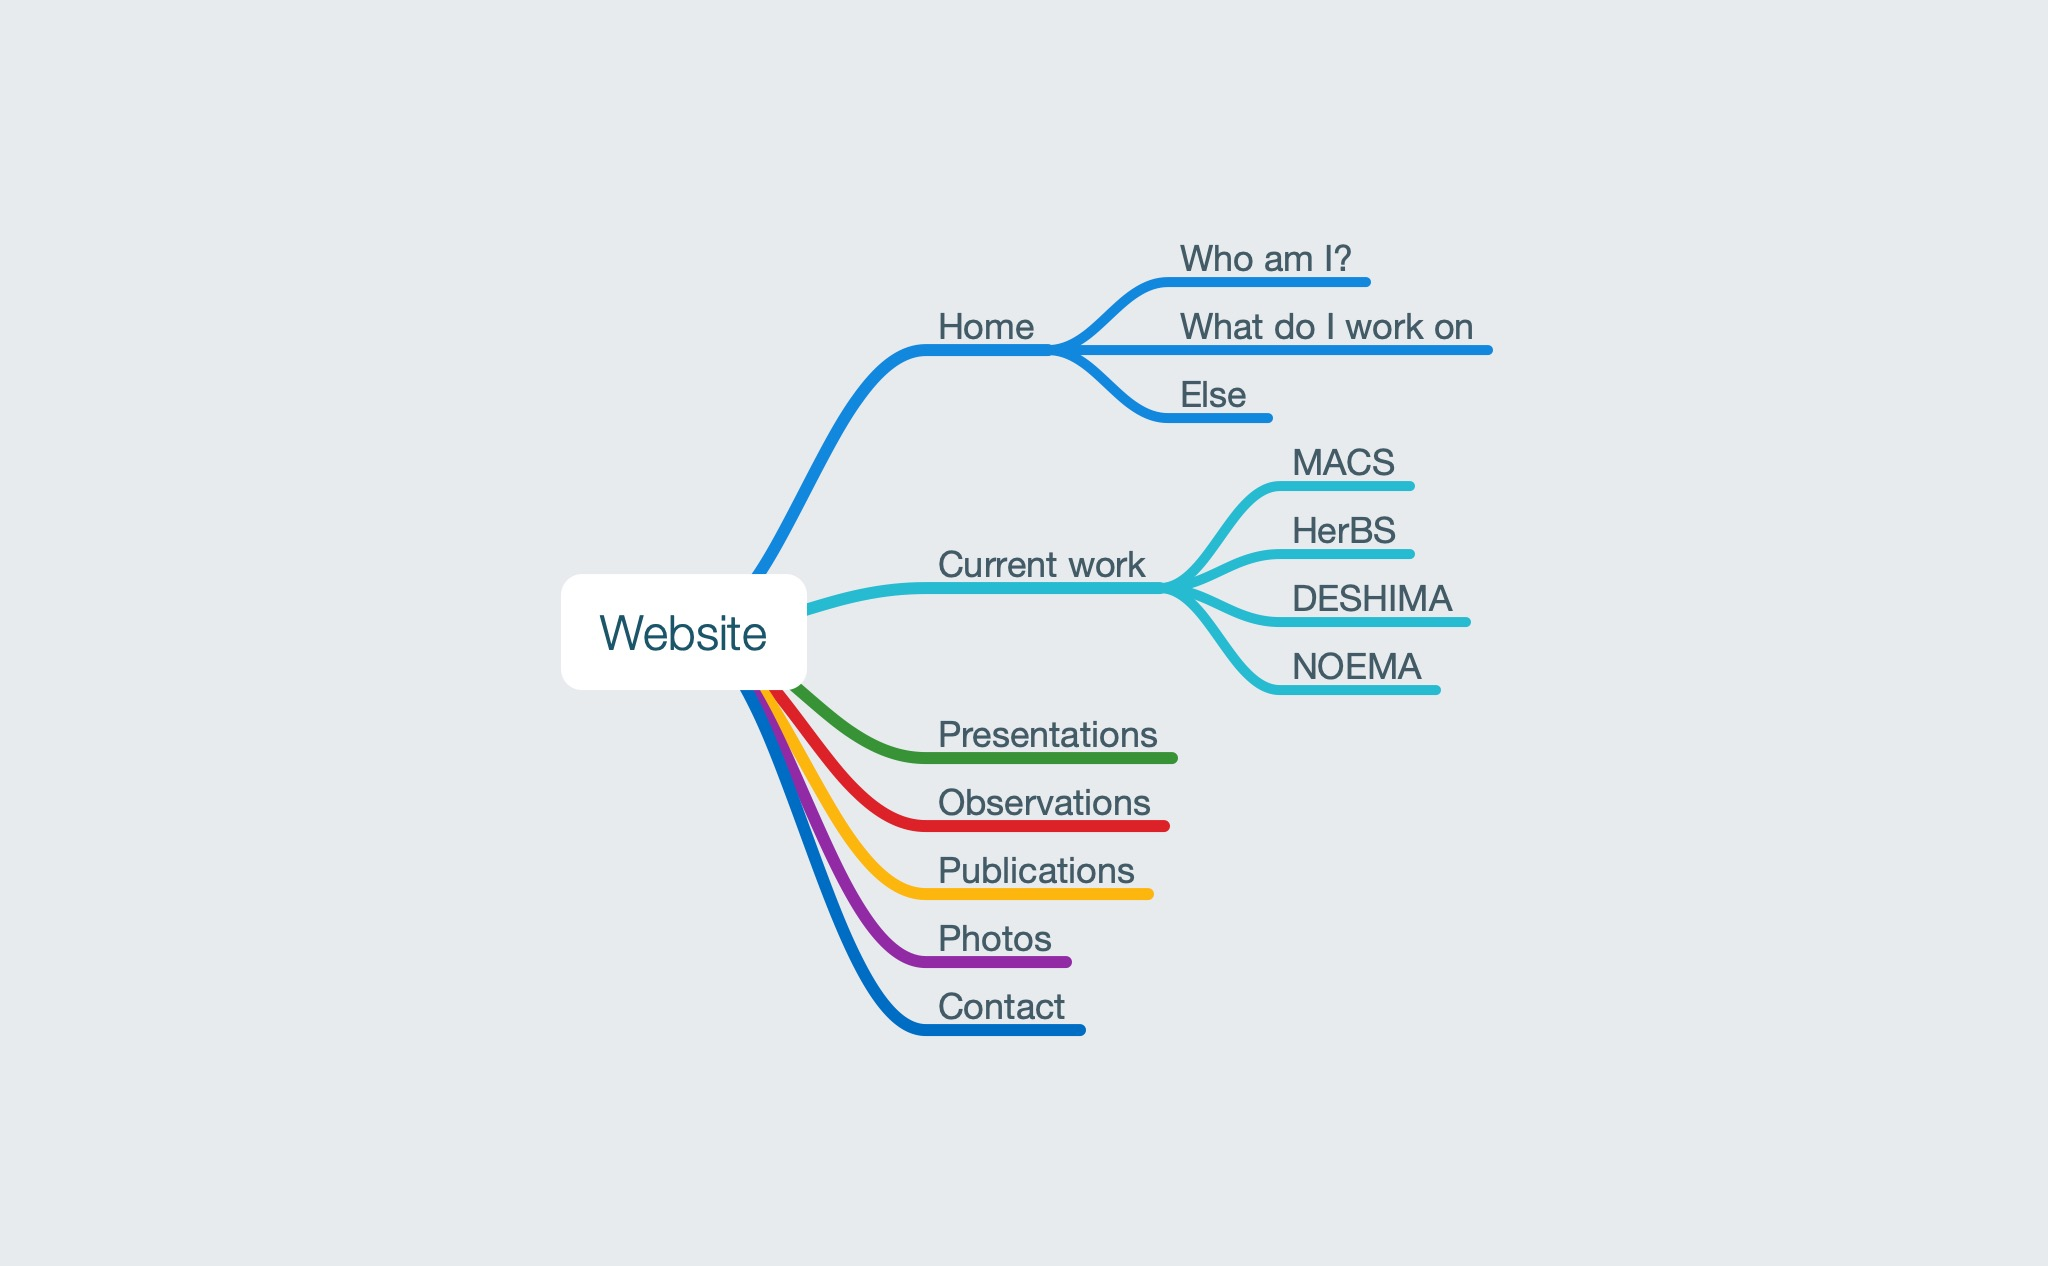
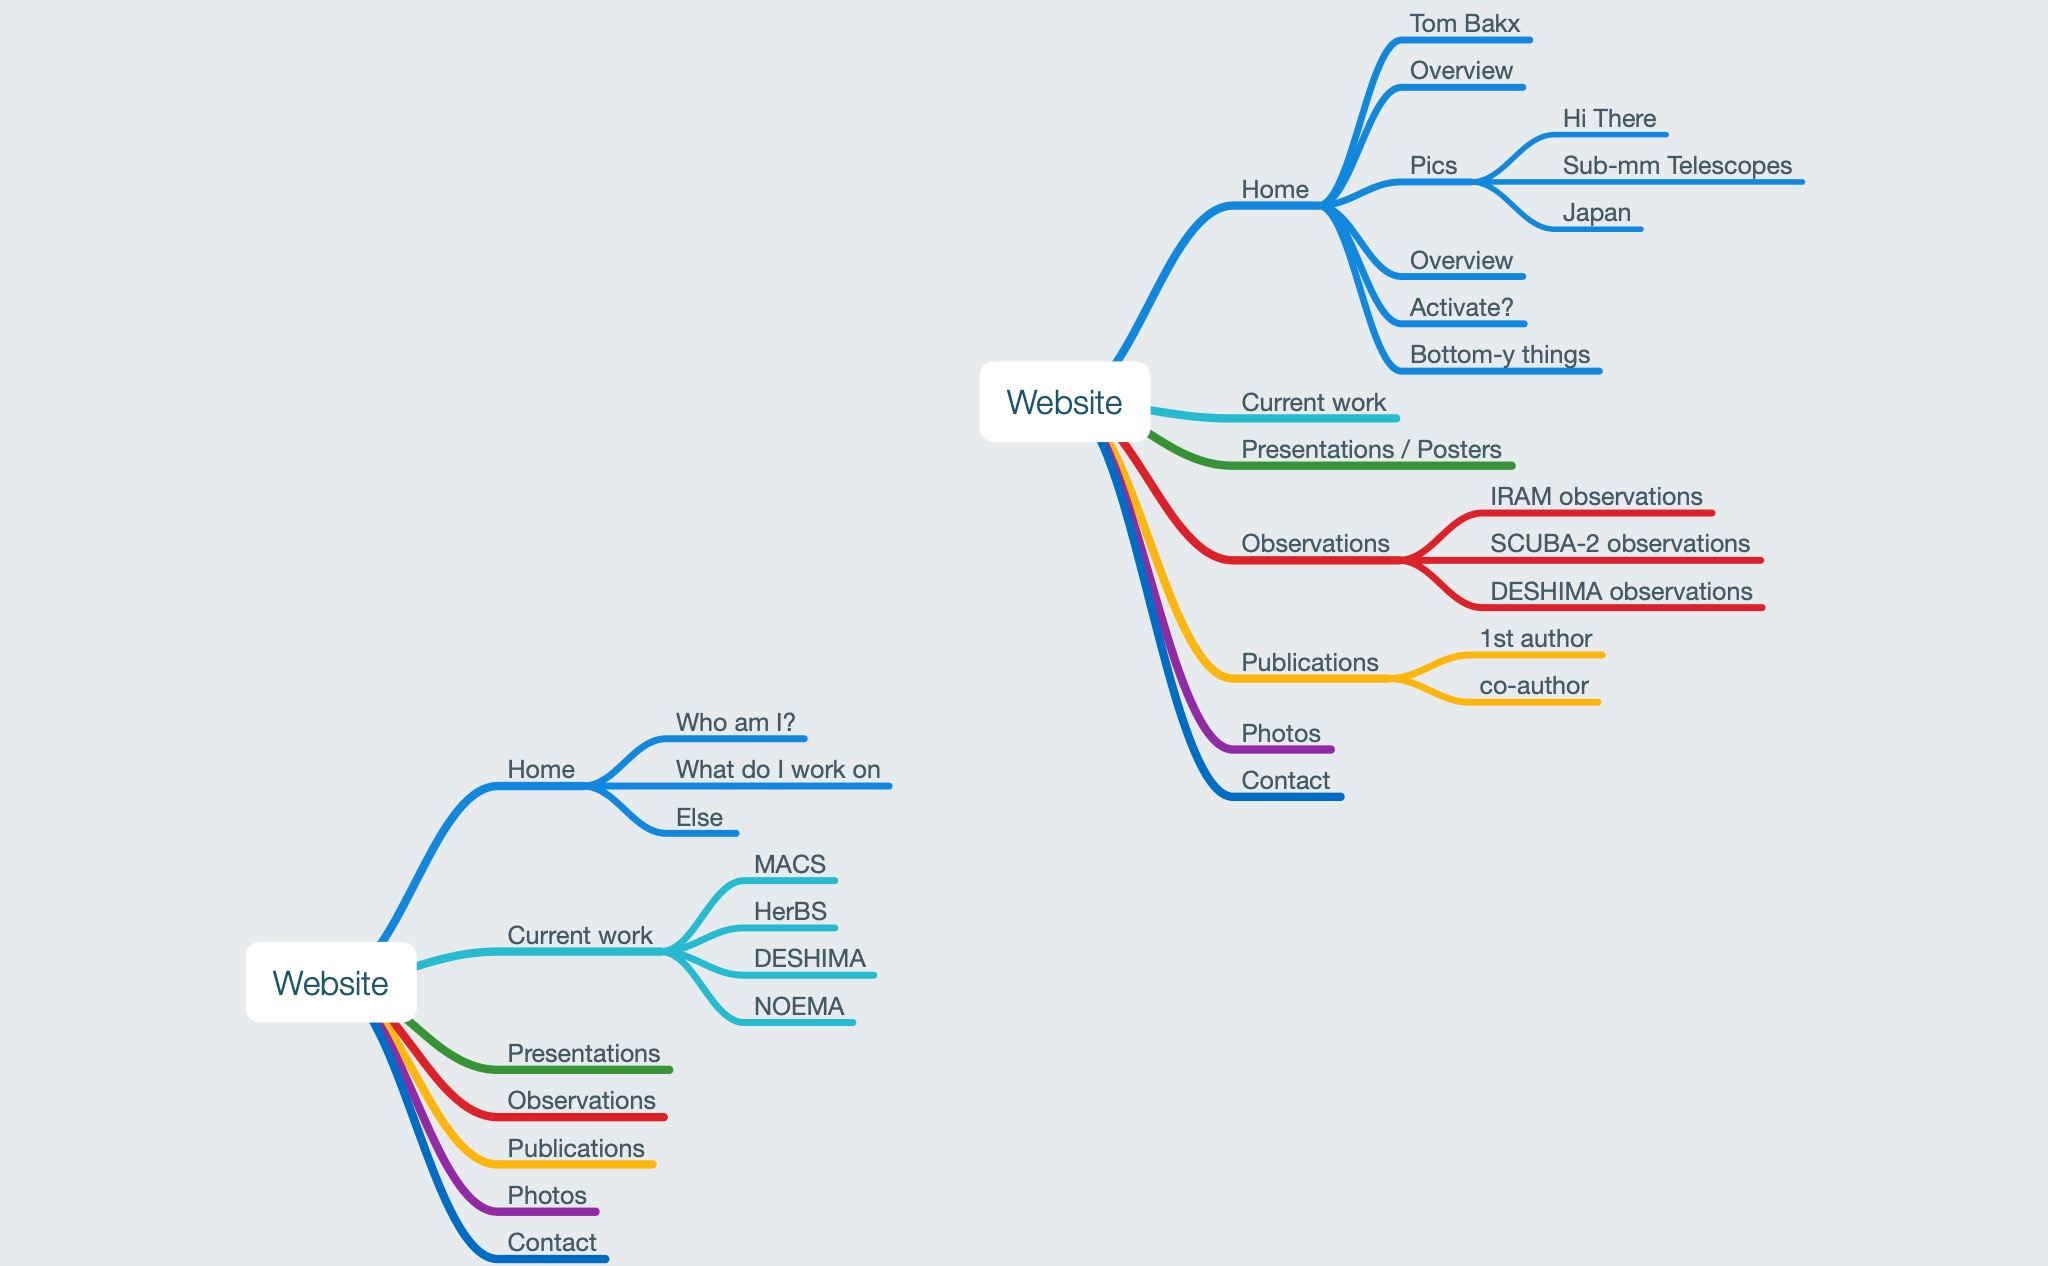
Include other pages

diff --git a/research.html b/research.html
@@ -1,0 +1,132 @@
+<!DOCTYPE HTML>
+<!--
+	Spectral by HTML5 UP
+	html5up.net | @ajlkn
+	Free for personal and commercial use under the CCA 3.0 license (html5up.net/license)
+-->
+<html>
+	<head>
+		<title>Current Work</title>
+		<meta charset="utf-8" />
+		<meta name="viewport" content="width=device-width, initial-scale=1, user-scalable=no" />
+		<link rel="stylesheet" href="assets/css/main.css" />
+		<noscript><link rel="stylesheet" href="assets/css/noscript.css" /></noscript>
+	</head>
+	<body class="is-preload">
+
+		<!-- Page Wrapper -->
+			<div id="page-wrapper">
+
+				<!-- Header -->
+					<header id="header">
+						<h1><a href="index.html">Tom Bakx</a></h1>
+						<nav id="nav">
+							<ul>
+								<li class="special">
+									<a href="#menu" class="menuToggle"><span>Menu</span></a>
+									<div id="menu">
+										<ul>
+											<li><a href="index.html">Home</a></li>
+											<li><a href="research.html">Current work</a></li>
+											<li><a href="presentations.html">Presentations</a></li>
+											<li><a href="observations.html">Observations</a></li>
+											<li><a href="publications.html">Publications</a></li>
+											<li><a href="photos.html">Photos</a></li>
+											<li><a href="contact.html">Contact</a></li>
+										</ul>
+									</div>
+								</li>
+							</ul>
+						</nav>
+					</header>
+
+				<!-- Main -->
+					<article id="main">
+						<header>
+							<h2>Current Work</h2>
+							<p>From high-redshift Lyman-Break Galaxies, to lower-redshift sub-mm sources.</p>
+						</header>
+						<section class="wrapper style5">
+							<div class="inner">
+
+								<h3>Herschel Bright Sources</h3>
+								<p><span class="image right"><img src="images/pic05.jpg" alt="" /></span>
+Etiam iaculis nulla ipsum, et pharetra libero rhoncus ut. Phasellus rutrum cursus velit, eget condimentum nunc blandit vel. In at pulvinar lectus. Morbi diam ante, vulputate et imperdiet eget, fermentum non dolor. Ut eleifend sagittis tincidunt. Sed viverra commodo mi, ac rhoncus justo. Duis neque ligula, elementum ut enim vel, posuere finibus justo. Vivamus facilisis maximus nibh quis pulvinar. Quisque hendrerit in ipsum id tellus facilisis fermentum. Proin mauris dui, at vestibulum sit amet, auctor bibendum neque.Etiam iaculis nulla ipsum, et pharetra libero rhoncus ut. Phasellus rutrum cursus velit, eget condimentum nunc blandit vel. In at pulvinar lectus. Morbi diam ante, vulputate et imperdiet eget, fermentum non dolor. Ut eleifend sagittis tincidunt. Sed viverra commodo mi, ac rhoncus justo. Duis neque ligula, elementum ut enim vel, posuere finibus justo. Vivamus facilisis maximus nibh quis pulvinar. Quisque hendrerit in ipsum id tellus facilisis fermentum. Proin mauris dui, at vestibulum sit amet, auctor bibendum neque.
+								</p>
+								<h5>Redshift distribution</h5>
+								<p><span class="image right"><img src="images/pic05.jpg" alt="" /></span>
+Etiam iaculis nulla ipsum, et pharetra libero rhoncus ut. Phasellus rutrum cursus velit, eget condimentum nunc blandit vel. In at pulvinar lectus. Morbi diam ante, vulputate et imperdiet eget, fermentum non dolor. Ut eleifend sagittis tincidunt. Sed viverra commodo mi, ac rhoncus justo. Duis neque ligula, elementum ut enim vel, posuere finibus justo. Vivamus facilisis maximus nibh quis pulvinar. Quisque hendrerit in ipsum id tellus facilisis fermentum. Proin mauris dui, at vestibulum sit amet, auctor bibendum neque.Etiam iaculis nulla ipsum, et pharetra libero rhoncus ut. Phasellus rutrum cursus velit, eget condimentum nunc blandit vel. In at pulvinar lectus. Morbi diam ante, vulputate et imperdiet eget, fermentum non dolor. Ut eleifend sagittis tincidunt. Sed viverra commodo mi, ac rhoncus justo. Duis neque ligula, elementum ut enim vel, posuere finibus justo. Vivamus facilisis maximus nibh quis pulvinar. Quisque hendrerit in ipsum id tellus facilisis fermentum. Proin mauris dui, at vestibulum sit amet, auctor bibendum neque.
+								</p>
+								<h4>Gravitational lensing</h4>
+								<p><span class="image right"><img src="images/pic05.jpg" alt="" /></span>
+Etiam iaculis nulla ipsum, et pharetra libero rhoncus ut. Phasellus rutrum cursus velit, eget condimentum nunc blandit vel. In at pulvinar lectus. Morbi diam ante, vulputate et imperdiet eget, fermentum non dolor. Ut eleifend sagittis tincidunt. Sed viverra commodo mi, ac rhoncus justo. Duis neque ligula, elementum ut enim vel, posuere finibus justo. Vivamus facilisis maximus nibh quis pulvinar. Quisque hendrerit in ipsum id tellus facilisis fermentum. Proin mauris dui, at vestibulum sit amet, auctor bibendum neque.Etiam iaculis nulla ipsum, et pharetra libero rhoncus ut. Phasellus rutrum cursus velit, eget condimentum nunc blandit vel. In at pulvinar lectus. Morbi diam ante, vulputate et imperdiet eget, fermentum non dolor. Ut eleifend sagittis tincidunt. Sed viverra commodo mi, ac rhoncus justo. Duis neque ligula, elementum ut enim vel, posuere finibus justo. Vivamus facilisis maximus nibh quis pulvinar. Quisque hendrerit in ipsum id tellus facilisis fermentum. Proin mauris dui, at vestibulum sit amet, auctor bibendum neque.
+								</p>
+								<h3>MACS0416</h3>
+								<p><span class="image right"><img src="images/pic05.jpg" alt="" /></span>
+Etiam iaculis nulla ipsum, et pharetra libero rhoncus ut. Phasellus rutrum cursus velit, eget condimentum nunc blandit vel. In at pulvinar lectus. Morbi diam ante, vulputate et imperdiet eget, fermentum non dolor. Ut eleifend sagittis tincidunt. Sed viverra commodo mi, ac rhoncus justo. Duis neque ligula, elementum ut enim vel, posuere finibus justo. Vivamus facilisis maximus nibh quis pulvinar. Quisque hendrerit in ipsum id tellus facilisis fermentum. Proin mauris dui, at vestibulum sit amet, auctor bibendum neque.Etiam iaculis nulla ipsum, et pharetra libero rhoncus ut. Phasellus rutrum cursus velit, eget condimentum nunc blandit vel. In at pulvinar lectus. Morbi diam ante, vulputate et imperdiet eget, fermentum non dolor. Ut eleifend sagittis tincidunt. Sed viverra commodo mi, ac rhoncus justo. Duis neque ligula, elementum ut enim vel, posuere finibus justo. Vivamus facilisis maximus nibh quis pulvinar. Quisque hendrerit in ipsum id tellus facilisis fermentum. Proin mauris dui, at vestibulum sit amet, auctor bibendum neque.
+								</p>
+
+								<hr />
+
+								<h4>Feugiat aliquam</h4>
+								<p>Nam sapien ante, varius in pulvinar vitae, rhoncus id massa. Donec varius ex in mauris ornare, eget euismod urna egestas. Etiam lacinia tempor ipsum, sodales porttitor justo. Aliquam dolor quam, semper in tortor eu, volutpat efficitur quam. Fusce nec fermentum nisl. Aenean erat diam, tempus aliquet erat.</p>
+
+								<p>Etiam iaculis nulla ipsum, et pharetra libero rhoncus ut. Phasellus rutrum cursus velit, eget condimentum nunc blandit vel. In at pulvinar lectus. Morbi diam ante, vulputate et imperdiet eget, fermentum non dolor. Ut eleifend sagittis tincidunt. Sed viverra commodo mi, ac rhoncus justo. Duis neque ligula, elementum ut enim vel, posuere finibus justo. Vivamus facilisis maximus nibh quis pulvinar. Quisque hendrerit in ipsum id tellus facilisis fermentum. Proin mauris dui, at vestibulum sit amet, auctor bibendum neque.</p>
+
+							</div>
+						</section>
+					</article>
+					<section id="two" class="wrapper alt style2">
+						<section class="spotlight">
+							<div class="image"><img src="photos/DSCF7051.jpg" alt="" /></div><div class="content">
+								<h2>Hi there!</h2>
+								<p>I study the high-redshift, early universe using sub-mm colours. <br /> My main interest is a sample of luminous, gravitationally lensed objects: <br /> Herschel Bright Sources (HerBS) Sample</p>
+							</div>
+						</section>
+					</section>
+					<section class="wrapper style5">
+							<div class="inner">
+
+								<h3>Lorem ipsum dolor</h3>
+								<p>Morbi mattis mi consectetur tortor elementum, varius pellentesque velit convallis. Aenean tincidunt lectus auctor mauris maximus, ac scelerisque ipsum tempor. Duis vulputate ex et ex tincidunt, quis lacinia velit aliquet. Duis non efficitur nisi, id malesuada justo. Maecenas sagittis felis ac sagittis semper. Curabitur purus leo, tempus sed finibus eget, fringilla quis risus. Maecenas et lorem quis sem varius sagittis et a est. Maecenas iaculis iaculis sem. Donec vel dolor at arcu tincidunt bibendum. Interdum et malesuada fames ac ante ipsum primis in faucibus. Fusce ut aliquet justo. Donec id neque ipsum. Integer eget ultricies odio. Nam vel ex a orci fringilla tincidunt. Aliquam eleifend ligula non velit accumsan cursus. Etiam ut gravida sapien.</p>
+
+								<p>Vestibulum ultrices risus velit, sit amet blandit massa auctor sit amet. Sed eu lectus sem. Phasellus in odio at ipsum porttitor mollis id vel diam. Praesent sit amet posuere risus, eu faucibus lectus. Vivamus ex ligula, tempus pulvinar ipsum in, auctor porta quam. Proin nec dui cursus, posuere dui eget interdum. Fusce lectus magna, sagittis at facilisis vitae, pellentesque at etiam. Quisque posuere leo quis sem commodo, vel scelerisque nisi scelerisque. Suspendisse id quam vel tortor tincidunt suscipit. Nullam auctor orci eu dolor consectetur, interdum ullamcorper ante tincidunt. Mauris felis nec felis elementum varius.</p>
+
+								<hr />
+
+								<h4>Feugiat aliquam</h4>
+								<p>Nam sapien ante, varius in pulvinar vitae, rhoncus id massa. Donec varius ex in mauris ornare, eget euismod urna egestas. Etiam lacinia tempor ipsum, sodales porttitor justo. Aliquam dolor quam, semper in tortor eu, volutpat efficitur quam. Fusce nec fermentum nisl. Aenean erat diam, tempus aliquet erat.</p>
+
+								<p>Etiam iaculis nulla ipsum, et pharetra libero rhoncus ut. Phasellus rutrum cursus velit, eget condimentum nunc blandit vel. In at pulvinar lectus. Morbi diam ante, vulputate et imperdiet eget, fermentum non dolor. Ut eleifend sagittis tincidunt. Sed viverra commodo mi, ac rhoncus justo. Duis neque ligula, elementum ut enim vel, posuere finibus justo. Vivamus facilisis maximus nibh quis pulvinar. Quisque hendrerit in ipsum id tellus facilisis fermentum. Proin mauris dui, at vestibulum sit amet, auctor bibendum neque.</p>
+
+							</div>
+						</section>
+					</article>
+
+				<!-- Footer -->
+					<footer id="footer">
+						<ul class="icons">
+							<li><a href="#" class="icon fa-twitter"><span class="label">Twitter</span></a></li>
+							<li><a href="#" class="icon fa-facebook"><span class="label">Facebook</span></a></li>
+							<li><a href="#" class="icon fa-instagram"><span class="label">Instagram</span></a></li>
+							<li><a href="#" class="icon fa-dribbble"><span class="label">Dribbble</span></a></li>
+							<li><a href="#" class="icon fa-envelope-o"><span class="label">Email</span></a></li>
+						</ul>
+						<ul class="copyright">
+							<li>&copy; Untitled</li><li>Design: <a href="http://html5up.net">HTML5 UP</a></li>
+						</ul>
+					</footer>
+
+			</div>
+
+		<!-- Scripts -->
+			<script src="assets/js/jquery.min.js"></script>
+			<script src="assets/js/jquery.scrollex.min.js"></script>
+			<script src="assets/js/jquery.scrolly.min.js"></script>
+			<script src="assets/js/browser.min.js"></script>
+			<script src="assets/js/breakpoints.min.js"></script>
+			<script src="assets/js/util.js"></script>
+			<script src="assets/js/main.js"></script>
+
+	</body>
+</html>

diff --git a/presentations.html b/presentations.html
@@ -1,0 +1,98 @@
+<!DOCTYPE HTML>
+<!--
+	Spectral by HTML5 UP
+	html5up.net | @ajlkn
+	Free for personal and commercial use under the CCA 3.0 license (html5up.net/license)
+-->
+<html>
+	<head>
+		<title>Presentations & Posters</title>
+		<meta charset="utf-8" />
+		<meta name="viewport" content="width=device-width, initial-scale=1, user-scalable=no" />
+		<link rel="stylesheet" href="assets/css/main.css" />
+		<noscript><link rel="stylesheet" href="assets/css/noscript.css" /></noscript>
+	</head>
+	<body class="is-preload">
+
+		<!-- Page Wrapper -->
+			<div id="page-wrapper">
+
+				<!-- Header -->
+					<header id="header">
+						<h1><a href="index.html">Spectral</a></h1>
+						<nav id="nav">
+							<ul>
+								<li class="special">
+									<a href="#menu" class="menuToggle"><span>Menu</span></a>
+									<div id="menu">
+										<ul>
+											<li><a href="index.html">Home</a></li>
+											<li><a href="research.html">Current work</a></li>
+											<li><a href="presentations.html">Presentations</a></li>
+											<li><a href="observations.html">Observations</a></li>
+											<li><a href="publications.html">Publications</a></li>
+											<li><a href="photos.html">Photos</a></li>
+											<li><a href="contact.html">Contact</a></li>
+										</ul>
+									</div>
+								</li>
+							</ul>
+						</nav>
+					</header>
+
+				<!-- Main -->
+					<article id="main">
+						<header>
+							<h2>Presentations & Posters</h2>
+							<p> An overview of my recent posters and presentations </p>
+						</header>
+						<section class="wrapper style5">
+							<div class="inner">
+								<section>
+									<h4>Image</h4>
+									<h5>Fit</h5>
+									<div class="box alt">
+										<div class="row gtr-50 gtr-uniform">
+											<div class="col-12"><span class="image fit"><img src="images/banner.jpg" alt="" /></span></div>
+											<div class="col-4"><span class="image fit"><img src="images/pic01.jpg" alt="" /></span></div>
+											<div class="col-4"><span class="image fit"><img src="images/pic02.jpg" alt="" /></span></div>
+											<div class="col-4"><span class="image fit"><img src="images/pic03.jpg" alt="" /></span></div>
+											<div class="col-4"><span class="image fit"><img src="images/pic03.jpg" alt="" /></span></div>
+											<div class="col-4"><span class="image fit"><img src="images/pic02.jpg" alt="" /></span></div>
+											<div class="col-4"><span class="image fit"><img src="images/pic01.jpg" alt="" /></span></div>
+											<div class="col-4"><span class="image fit"><img src="images/pic02.jpg" alt="" /></span></div>
+											<div class="col-4"><span class="image fit"><img src="images/pic01.jpg" alt="" /></span></div>
+											<div class="col-4"><span class="image fit"><img src="images/pic03.jpg" alt="" /></span></div>
+										</div>
+									</div>
+							</div>
+						</section>
+					</article>
+
+				<!-- Footer -->
+					<footer id="footer">
+						<ul class="icons">
+							<li><a href="#" class="icon fa-twitter"><span class="label">Twitter</span></a></li>
+							<li><a href="#" class="icon fa-facebook"><span class="label">Facebook</span></a></li>
+							<li><a href="#" class="icon fa-instagram"><span class="label">Instagram</span></a></li>
+							<li><a href="#" class="icon fa-dribbble"><span class="label">Dribbble</span></a></li>
+							<li><a href="#" class="icon fa-envelope-o"><span class="label">Email</span></a></li>
+						</ul>
+						<ul class="copyright">
+							<li>&copy; Tom Bakx</li><li>Design: <a href="http://html5up.net">HTML5 UP</a></li>
+						</ul>
+					</footer>
+
+			</div>
+
+		<!-- Scripts -->
+			<script src="assets/js/jquery.min.js"></script>
+			<script src="assets/js/jquery.scrollex.min.js"></script>
+			<script src="assets/js/jquery.scrolly.min.js"></script>
+			<script src="assets/js/browser.min.js"></script>
+			<script src="assets/js/breakpoints.min.js"></script>
+			<script src="assets/js/util.js"></script>
+			<script src="assets/js/main.js"></script>
+
+	</body>
+</html>

diff --git a/elements.html b/elements.html
@@ -27,10 +27,12 @@
 									<div id="menu">
 										<ul>
 											<li><a href="index.html">Home</a></li>
-											<li><a href="generic.html">Generic</a></li>
-											<li><a href="elements.html">Elements</a></li>
-											<li><a href="#">Sign Up</a></li>
-											<li><a href="#">Log In</a></li>
+											<li><a href="research.html">Current work</a></li>
+											<li><a href="presentations.html">Presentations</a></li>
+											<li><a href="observations.html">Observations</a></li>
+											<li><a href="publications.html">Publications</a></li>
+											<li><a href="photos.html">Photos</a></li>
+											<li><a href="contact.html">Contact</a></li>
 										</ul>
 									</div>
 								</li>
@@ -367,7 +369,7 @@ print 'It took ' + i + ' iterations to sort the deck.';</code></pre>
 							<li><a href="#" class="icon fa-envelope-o"><span class="label">Email</span></a></li>
 						</ul>
 						<ul class="copyright">
-							<li>&copy; Untitled</li><li>Design: <a href="http://html5up.net">HTML5 UP</a></li>
+							<li>&copy; Tom Bakx</li><li>Design: <a href="http://html5up.net">HTML5 UP</a></li>
 						</ul>
 					</footer>
 

diff --git a/generic.html b/generic.html
@@ -27,10 +27,12 @@
 									<div id="menu">
 										<ul>
 											<li><a href="index.html">Home</a></li>
-											<li><a href="generic.html">Generic</a></li>
-											<li><a href="elements.html">Elements</a></li>
-											<li><a href="#">Sign Up</a></li>
-											<li><a href="#">Log In</a></li>
+											<li><a href="research.html">Current work</a></li>
+											<li><a href="presentations.html">Presentations</a></li>
+											<li><a href="observations.html">Observations</a></li>
+											<li><a href="publications.html">Publications</a></li>
+											<li><a href="photos.html">Photos</a></li>
+											<li><a href="contact.html">Contact</a></li>
 										</ul>
 									</div>
 								</li>
@@ -107,7 +109,7 @@
 							<li><a href="#" class="icon fa-envelope-o"><span class="label">Email</span></a></li>
 						</ul>
 						<ul class="copyright">
-							<li>&copy; Untitled</li><li>Design: <a href="http://html5up.net">HTML5 UP</a></li>
+							<li>&copy; Tom Bakx</li><li>Design: <a href="http://html5up.net">HTML5 UP</a></li>
 						</ul>
 					</footer>
 
